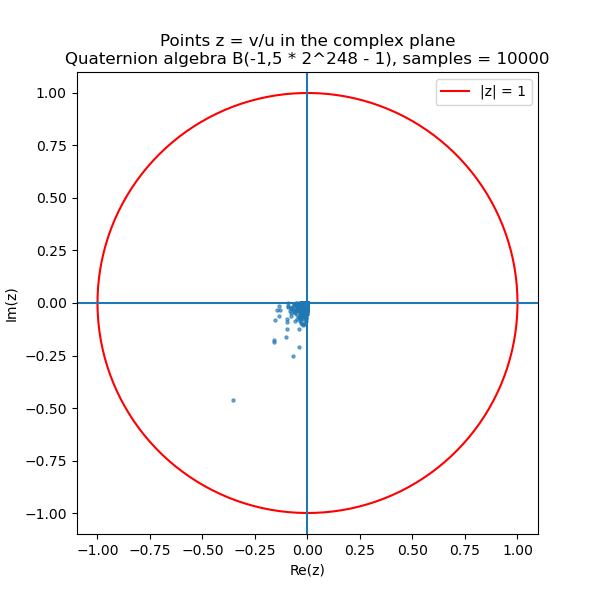
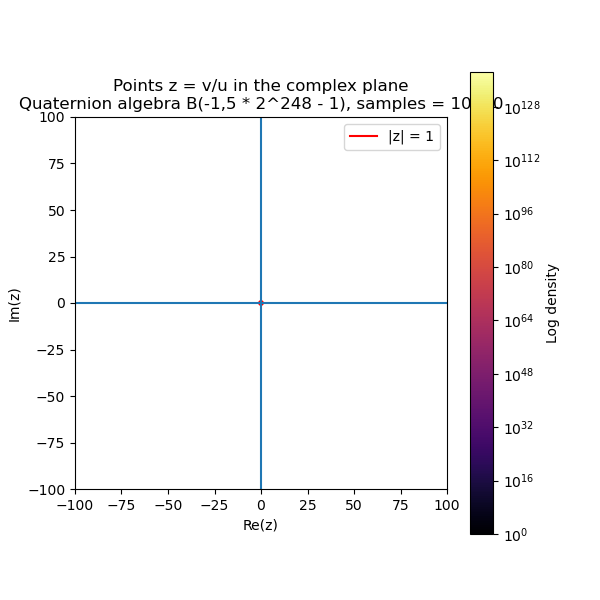
figuring out which n and density

diff --git a/LatticeReduction/sampling_qlapoti.py b/LatticeReduction/sampling_qlapoti.py
@@ -5,11 +5,16 @@ from euclideanspace import EuclideanSpace
 import random
 import matplotlib.pyplot as plt
 import numpy as np
+from scipy.stats import gaussian_kde #density plot
+from matplotlib.colors import LogNorm
+import matplotlib.cm as cm
 
 def small_generator(n, QA):
   '''I is left ideal, n is the integer n=nrd(I) and b is the basis of I
   returns alpha
   '''
+  if n % 2 == 0:
+    raise ValueError("n must be odd")
   while True:
     coeffs = [random.randint(1, 10**5) for _ in range(4)]
     if gcd(2*coeffs[0], n) == 1 and gcd(QA.nrd(coeffs), n**2) == 1:
@@ -115,11 +120,21 @@ def plot_z_in_disk(n, QA, num_samples=1000):
   xs, ys = zip(*points)
 
   plt.figure(figsize=(6,6))
-
   
-  # plot the points
-  plt.scatter(xs, ys, s=5, alpha=0.6)
+  # density color map
+  cmap = cm.get_cmap('inferno').copy()
+  cmap.set_under('white')  # 0 is white
 
+  plt.hist2d(xs, ys,
+    bins=200,
+    density=True,
+    cmap=cmap,
+    norm=LogNorm(vmin=1))
+  plt.colorbar(label="Log density")
+
+  # plot the points
+  plt.scatter(xs, ys, s=1, alpha=0.2, color='black')
+  
 
   # draw the unit circle
   theta = np.linspace(0, 2*np.pi, 300)
@@ -130,7 +145,12 @@ def plot_z_in_disk(n, QA, num_samples=1000):
   
   plt.axhline(0)
   plt.axvline(0)
-  plt.gca().set_aspect('equal', adjustable='box')
+  
+  plt.xlim(-1, 1)
+  plt.ylim(-1, 1)
+
+  #plt.gca().set_aspect('equal', adjustable='box')
+  plt.gca().set_aspect('equal')
 
 
   plt.title(
@@ -150,8 +170,9 @@ if __name__ == "__main__":
   p1 = 5 * 2**248 - 1
   p2 = 65 * 2**376 - 1
   p3 = 27 * 2**500 - 1
+  e = 246
   B = QuaternionAlgebra(p1)
-  n = 1001
+  n = random.randint(1, 2**e)
   u,v = lattice_vectors(n, B)
   E = EuclideanSpace(2)
   print(f"u: {u}, v: {v}")
